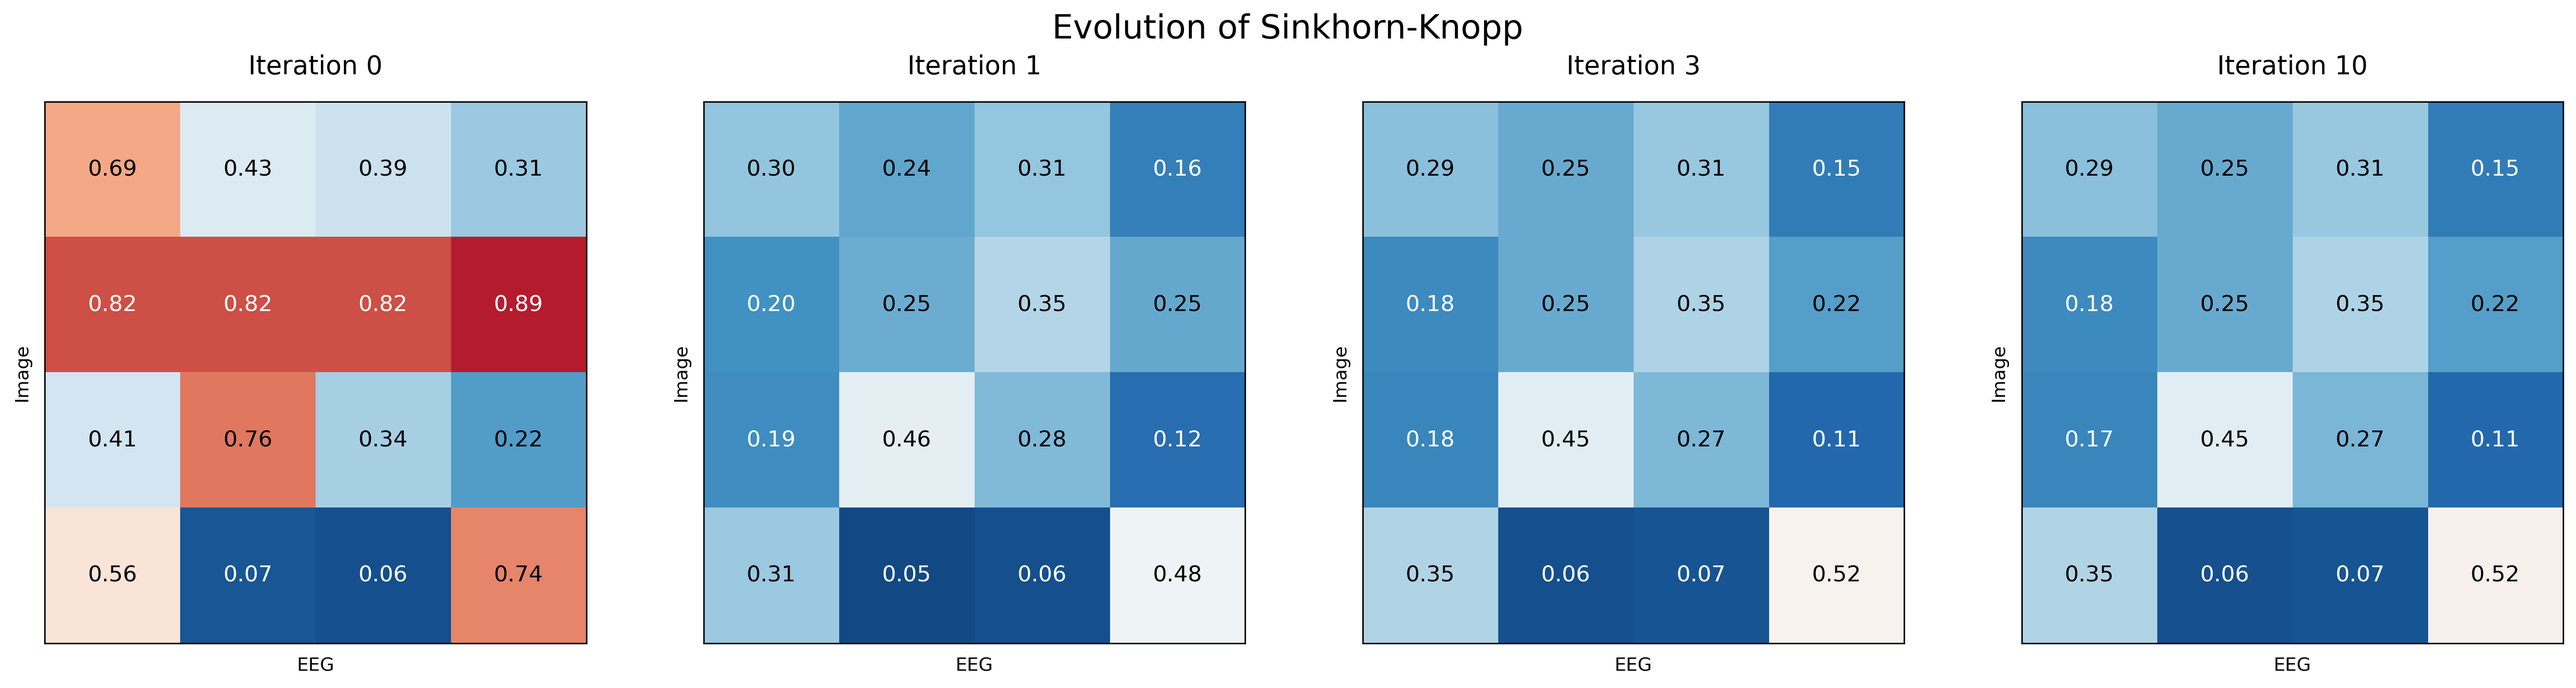
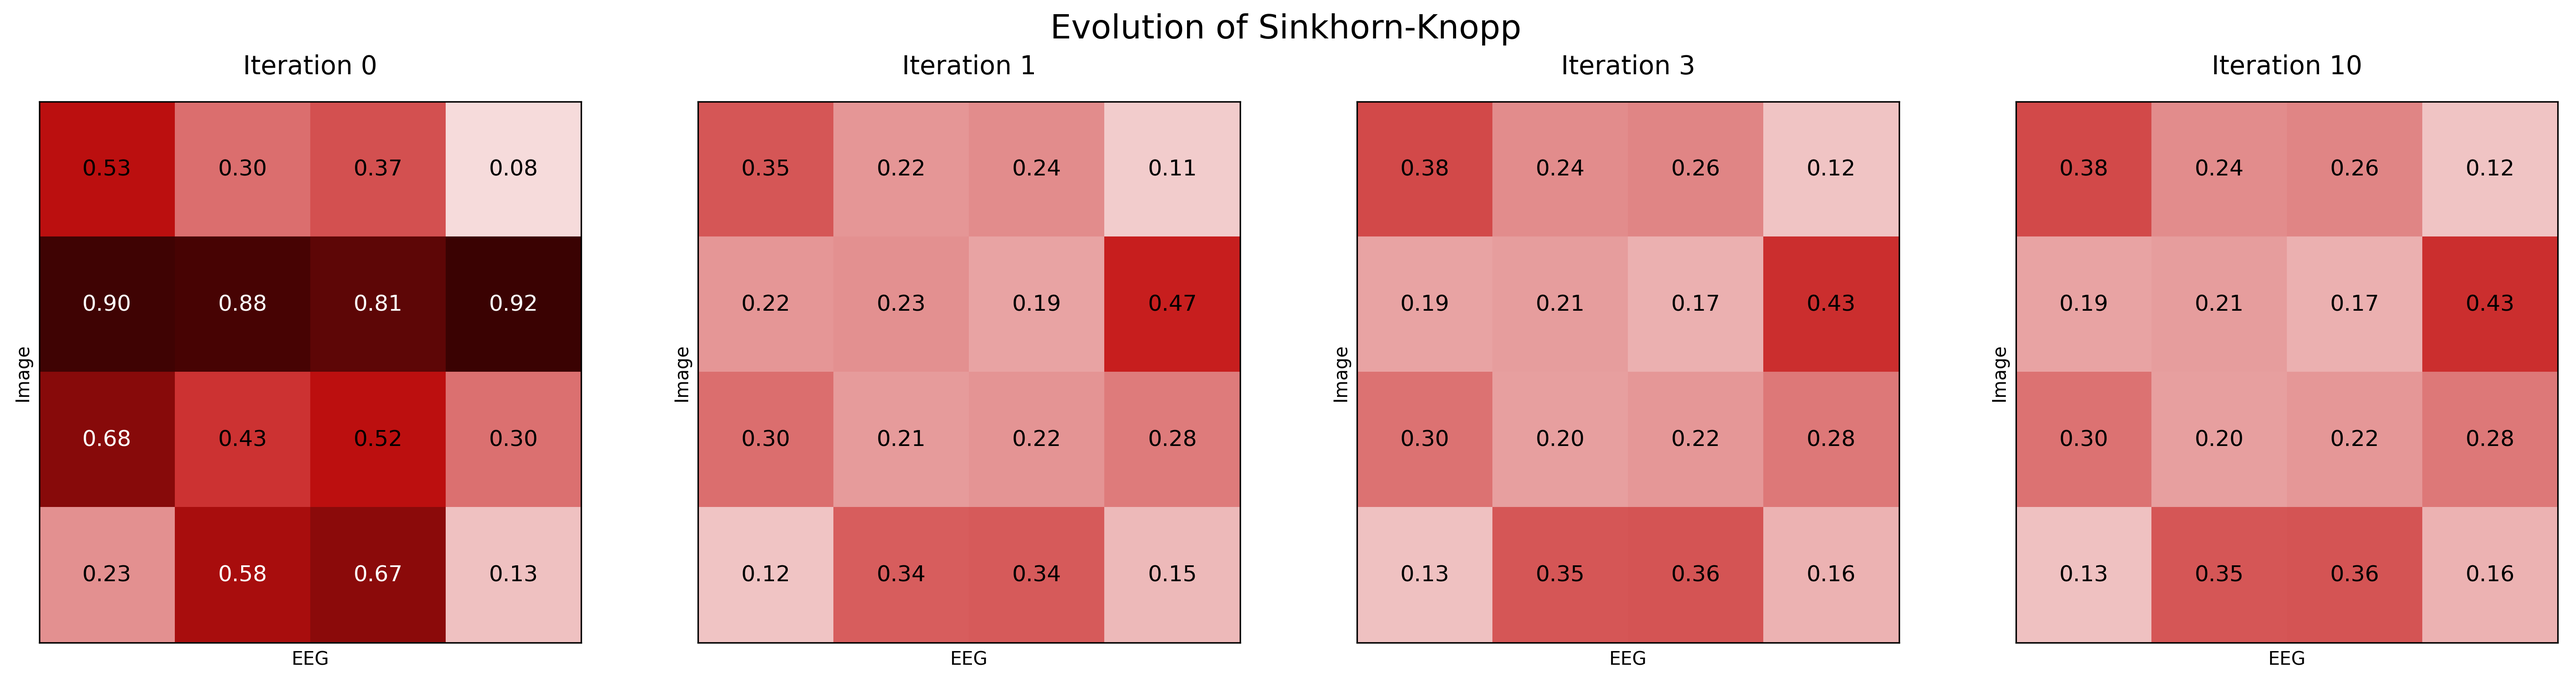
add subj interval flag

diff --git a/train.py b/train.py
@@ -497,11 +497,13 @@ if __name__ == '__main__':
     parser.add_argument('--clap_mse_lambda', default=0.0, type=float, help='weight for identity anchor MSE loss in stage-2')
     parser.add_argument('--val_subject_id', default=None, type=int, help='subject ID used for validation model selection')
     parser.add_argument('--select_best_on', type=str, choices=['test', 'val'], default='test', help='which split selects the best checkpoint')
+    parser.add_argument('--select_best_metric', type=str, choices=['loss', 'top1'], default='loss', help='metric used to select the best checkpoint on the chosen split')
     parser.add_argument('--subject_probe_holdout', action='store_true', help='per-subject held-out split; train linear subject probes (baseline only)')
     parser.add_argument('--subject_probe_holdout_ratio', type=float, default=0.10, help='fraction per train subject reserved for probe validation')
     parser.add_argument('--subject_adapt_lambda', default=0.0, type=float, help='weight for unlabeled subject-adaptation loss fit on split A and supervised on split B')
     parser.add_argument('--subject_adapt_split_a_ratio', default=0.5, type=float, help='per-subject within-batch ratio reserved for unlabeled split A')
     parser.add_argument('--subject_adapt_min_samples_per_subject', default=8, type=int, help='minimum number of samples for a subject to contribute to subject adaptation')
+    parser.add_argument('--subject_adapt_interval', default=1, type=int, help='run subject adaptation every N training batches')
     parser.add_argument('--subject_adapt_saw_shrink', default=0.85, type=float, help='SAW shrinkage used when fitting unlabeled subject adaptation')
     parser.add_argument('--subject_adapt_saw_diag', action='store_true', help='use diagonal covariance for subject-adaptation SAW')
     parser.add_argument('--subject_adapt_saw_no_renorm', action='store_true', help='disable pre-map L2 renorm inside subject adaptation')
@@ -537,6 +539,8 @@ if __name__ == '__main__':
             raise ValueError("--subject_adapt_split_a_ratio must be strictly between 0 and 1.")
         if args.subject_adapt_min_samples_per_subject < 2:
             raise ValueError("--subject_adapt_min_samples_per_subject must be at least 2.")
+        if args.subject_adapt_interval < 1:
+            raise ValueError("--subject_adapt_interval must be at least 1.")
     if args.train_saw_whiten_image and not args.train_saw:
         raise ValueError("--train_saw_whiten_image requires --train_saw.")
 
@@ -1072,7 +1076,7 @@ if __name__ == '__main__':
         total_subject_adapt_loss = 0.0
         total_subject_adapt_subjects = 0
 
-        for batch in tqdm(dataloader, desc=f"Epoch {epoch}/{total_epochs} [{stage}]"):
+        for batch_idx, batch in enumerate(tqdm(dataloader, desc=f"Epoch {epoch}/{total_epochs} [{stage}]"), start=1):
             eeg_batch = batch[0].to(device)
             image_feature_batch = batch[1].to(device)
             text_feature_batch = batch[2].to(device)
@@ -1153,7 +1157,7 @@ if __name__ == '__main__':
                 loss = loss + args.relic_lambda * relic_loss
                 total_relic_loss += relic_loss.item()
 
-            if args.subject_adapt_lambda > 0 and stage != 'adapter':
+            if args.subject_adapt_lambda > 0 and stage != 'adapter' and (batch_idx % args.subject_adapt_interval == 0):
                 subject_adapt_loss, valid_subjects = compute_subject_adaptation_loss(
                     args,
                     criterion,
@@ -1283,10 +1287,16 @@ if __name__ == '__main__':
             selected_top1 = val_top1
 
         is_better = False
-        if selected_loss < best_test_loss:
-            is_better = True
-        elif selected_loss == best_test_loss and selected_top1 > best_top1_acc:
-            is_better = True
+        if args.select_best_metric == 'top1':
+            if selected_top1 > best_top1_acc:
+                is_better = True
+            elif selected_top1 == best_top1_acc and selected_loss < best_test_loss:
+                is_better = True
+        else:
+            if selected_loss < best_test_loss:
+                is_better = True
+            elif selected_loss == best_test_loss and selected_top1 > best_top1_acc:
+                is_better = True
 
         if is_better:
             best_test_loss = selected_loss

diff --git a/analysis/SK.py b/analysis/SK.py
@@ -1,6 +1,14 @@
 import numpy as np
 import matplotlib.pyplot as plt
+from matplotlib.colors import LinearSegmentedColormap
 import os
+
+# Saturated dark red at high values (no brown/grey from mixed G,B)
+_WHITE_DEEP_RED = LinearSegmentedColormap.from_list(
+    "white_deep_red",
+    ["#ffffff", "#c41010", "#1f0000"],
+    N=256,
+)
 
 def sinkhorn_knopp_illustration(n=4, iterations=[0, 1, 3, 10], save_path="analysis/sinkhorn_knopp_evolution.png"):
     """Displays and saves a heatmap of Sinkhorn-Knopp iterations with a hub row."""
@@ -24,9 +32,7 @@ def sinkhorn_knopp_illustration(n=4, iterations=[0, 1, 3, 10], save_path="analys
     for i in range(max_iter + 1):
         if i in iterations:
             ax = axes[plot_idx]
-            # Use 'RdBu_r' (Red-Blue reversed) or 'coolwarm' for Blue to Red
-            # 'RdBu_r' has Blue at low and Red at high values
-            im = ax.imshow(M, cmap='RdBu_r', vmin=0, vmax=vmax)
+            im = ax.imshow(M, cmap=_WHITE_DEEP_RED, vmin=0, vmax=vmax)
             ax.set_title(f'Iteration {i}', fontsize=14, pad=15)
 
             # Annotate the matrix values
@@ -34,8 +40,8 @@ def sinkhorn_knopp_illustration(n=4, iterations=[0, 1, 3, 10], save_path="analys
                 for r in range(n):
                     for c in range(n):
                         val = M[r, c]
-                        # Choose text color based on background intensity
-                        color = "white" if val > 0.8 or val < 0.2 else "black"
+                        # White at low values, deep red at high — favor contrast
+                        color = "white" if val > 0.55 else "black"
                         ax.text(c, r, f'{val:.2f}', ha="center", va="center", 
                                 color=color, fontsize=12)
 
